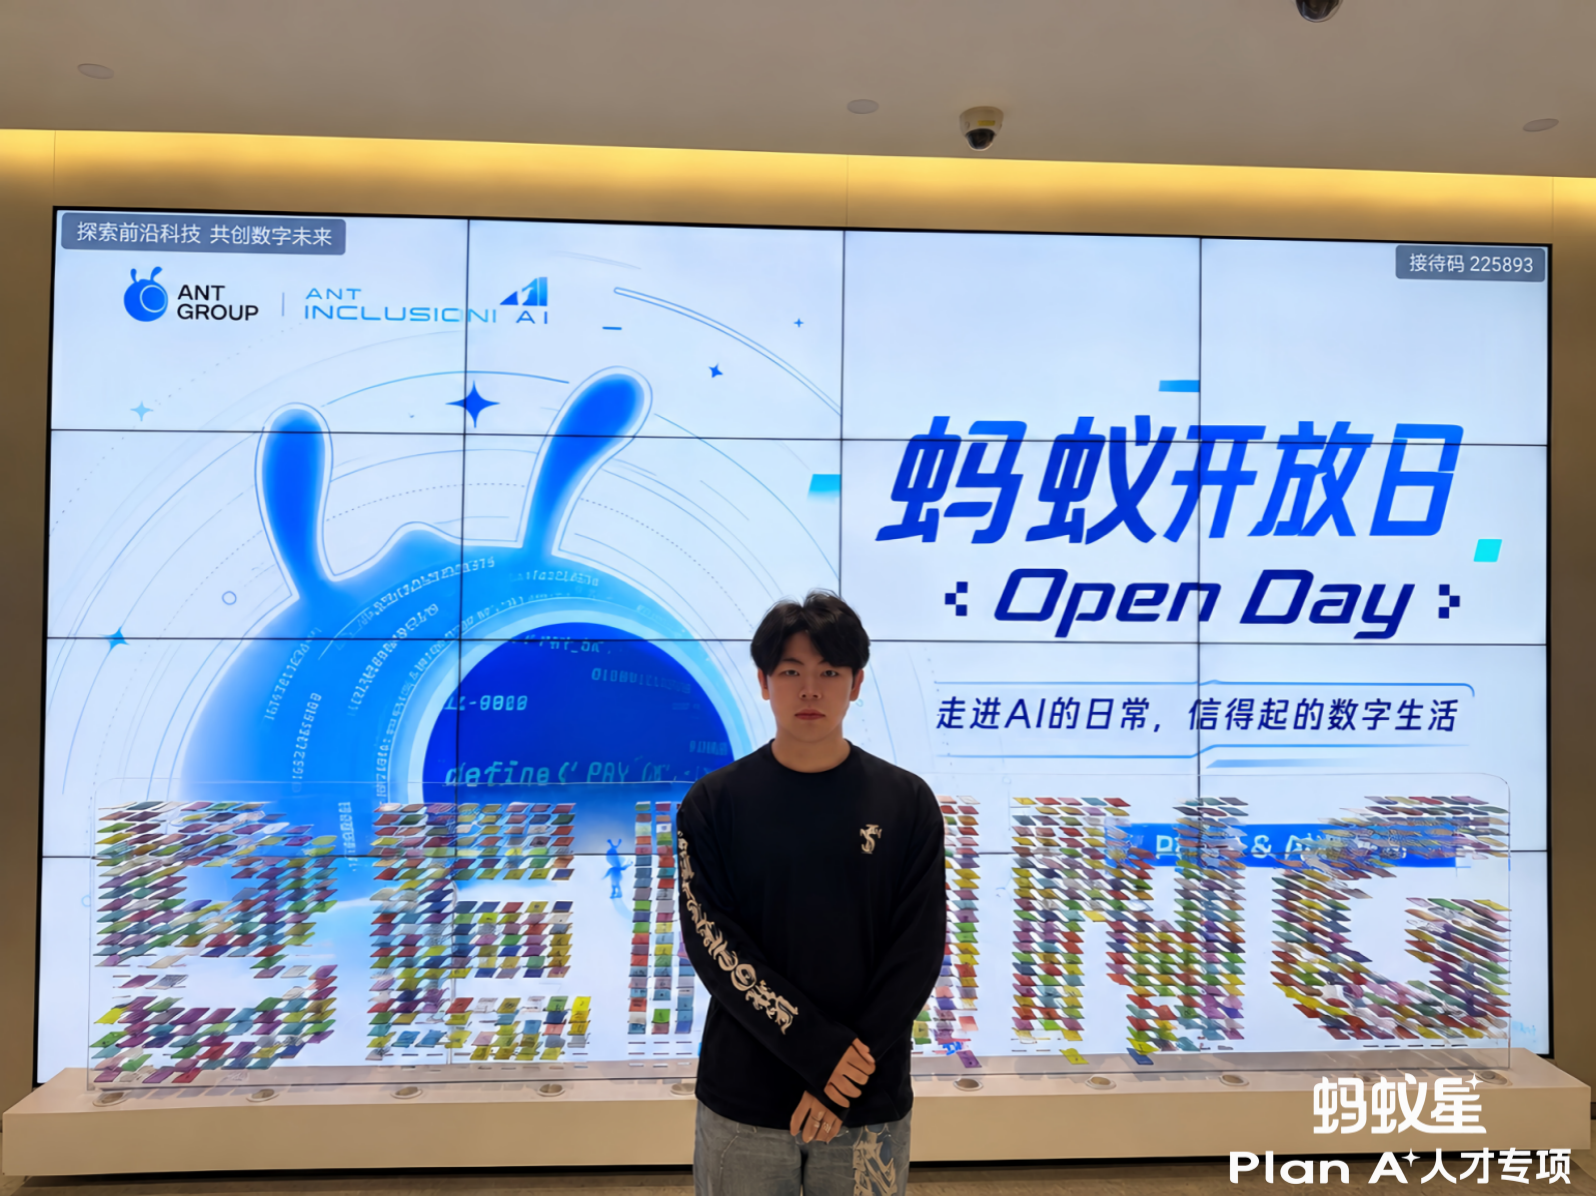
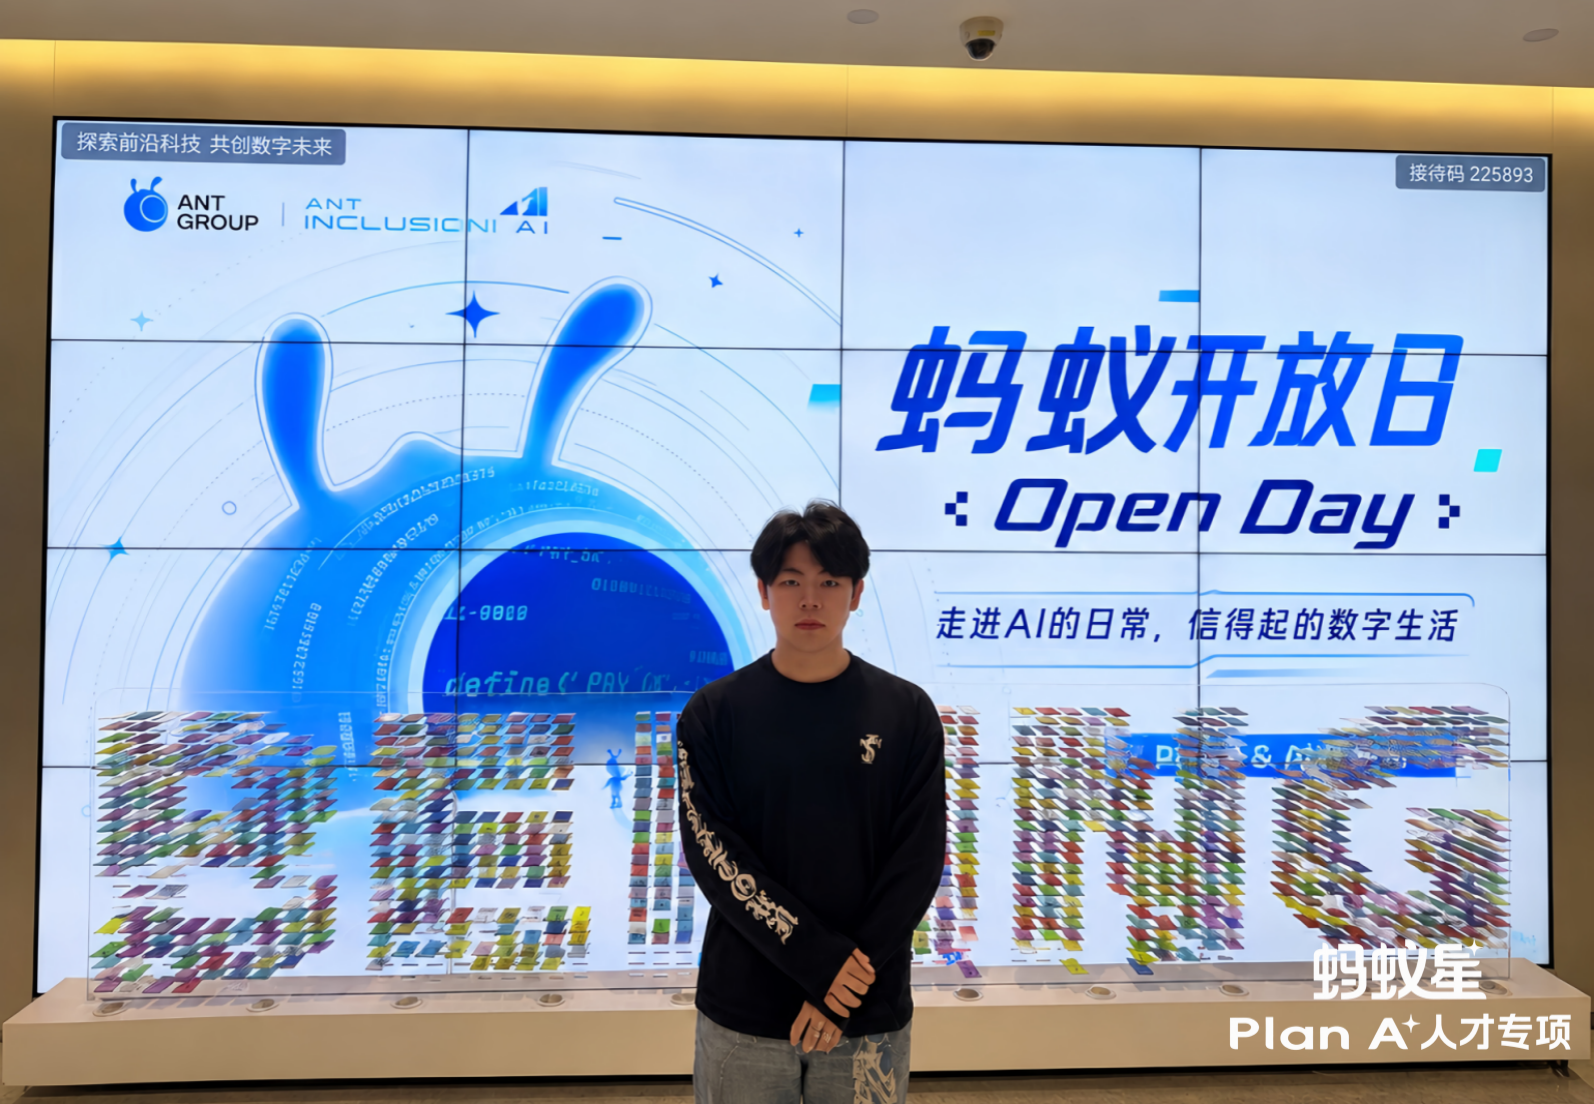
Update Ant-Star activity photo crop

diff --git a/_pages/includes/intro.md b/_pages/includes/intro.md
@@ -102,7 +102,7 @@ My research interests include Reinforcement Learning, Large Language Models and 
 <div class="activities-scroll">
   <div class="activities-container">
     <div class="activities-item">
-      <img src="../images/activities/AntStar2611.jpg?v=c0d57553" alt="蚂蚁星开放日">
+      <img src="../images/activities/AntStar2611.jpg?v=cbc94ca5" alt="蚂蚁星开放日">
       <p>
         <a href="https://mp.weixin.qq.com/s/xPxo9nRcGWBc4fnpLWCx0g" target="_blank">蚂蚁星开放日</a>
         (北京·2026.11)
